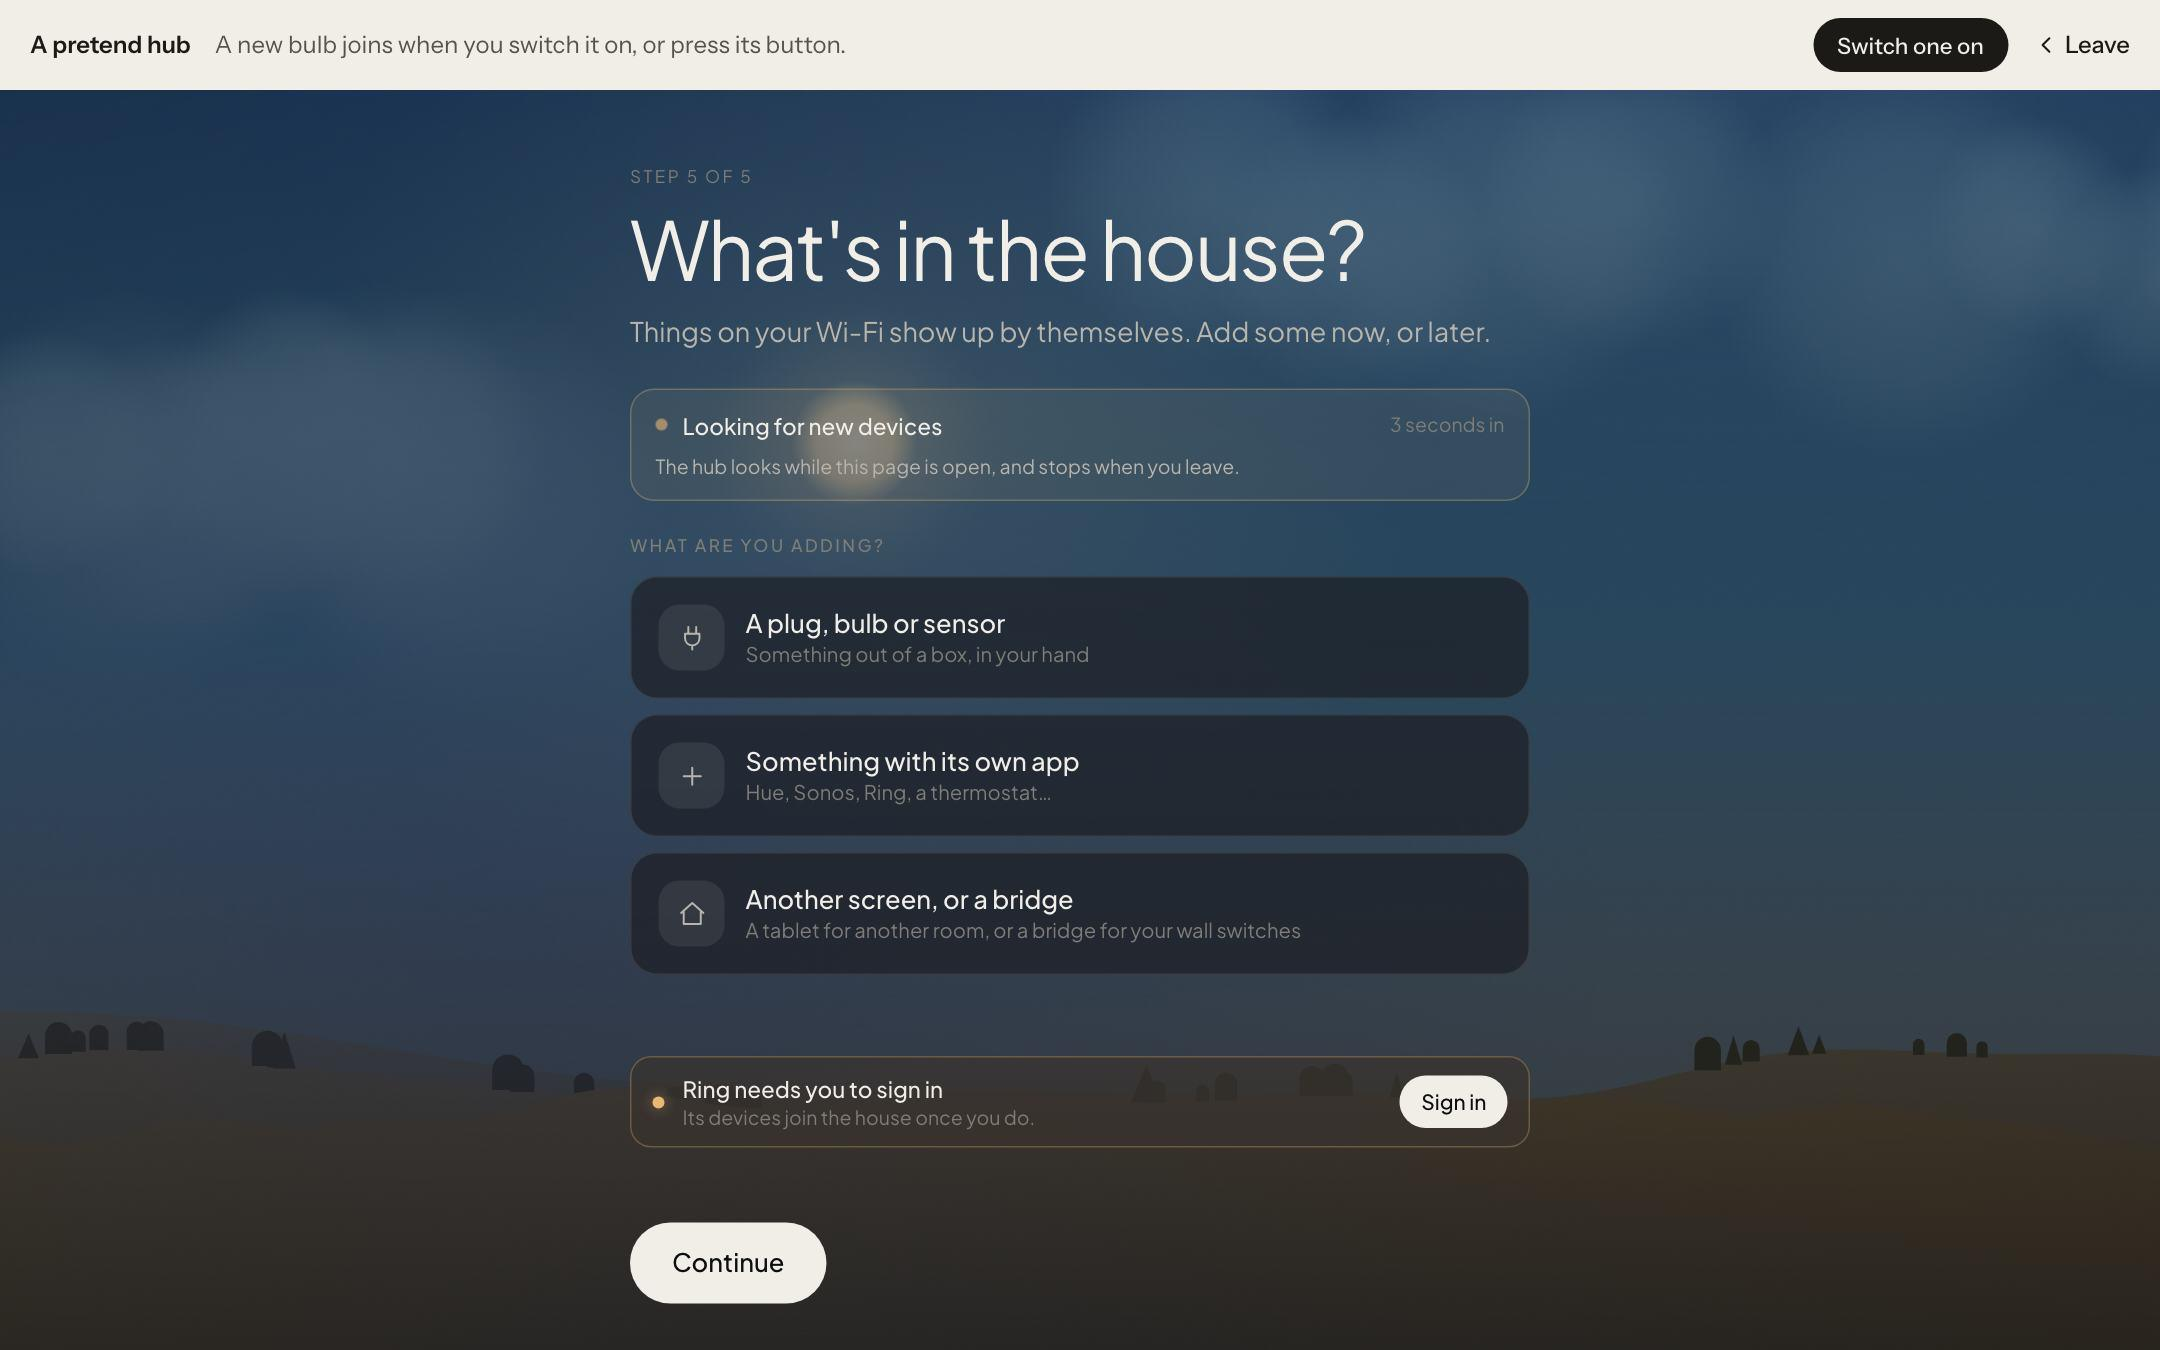
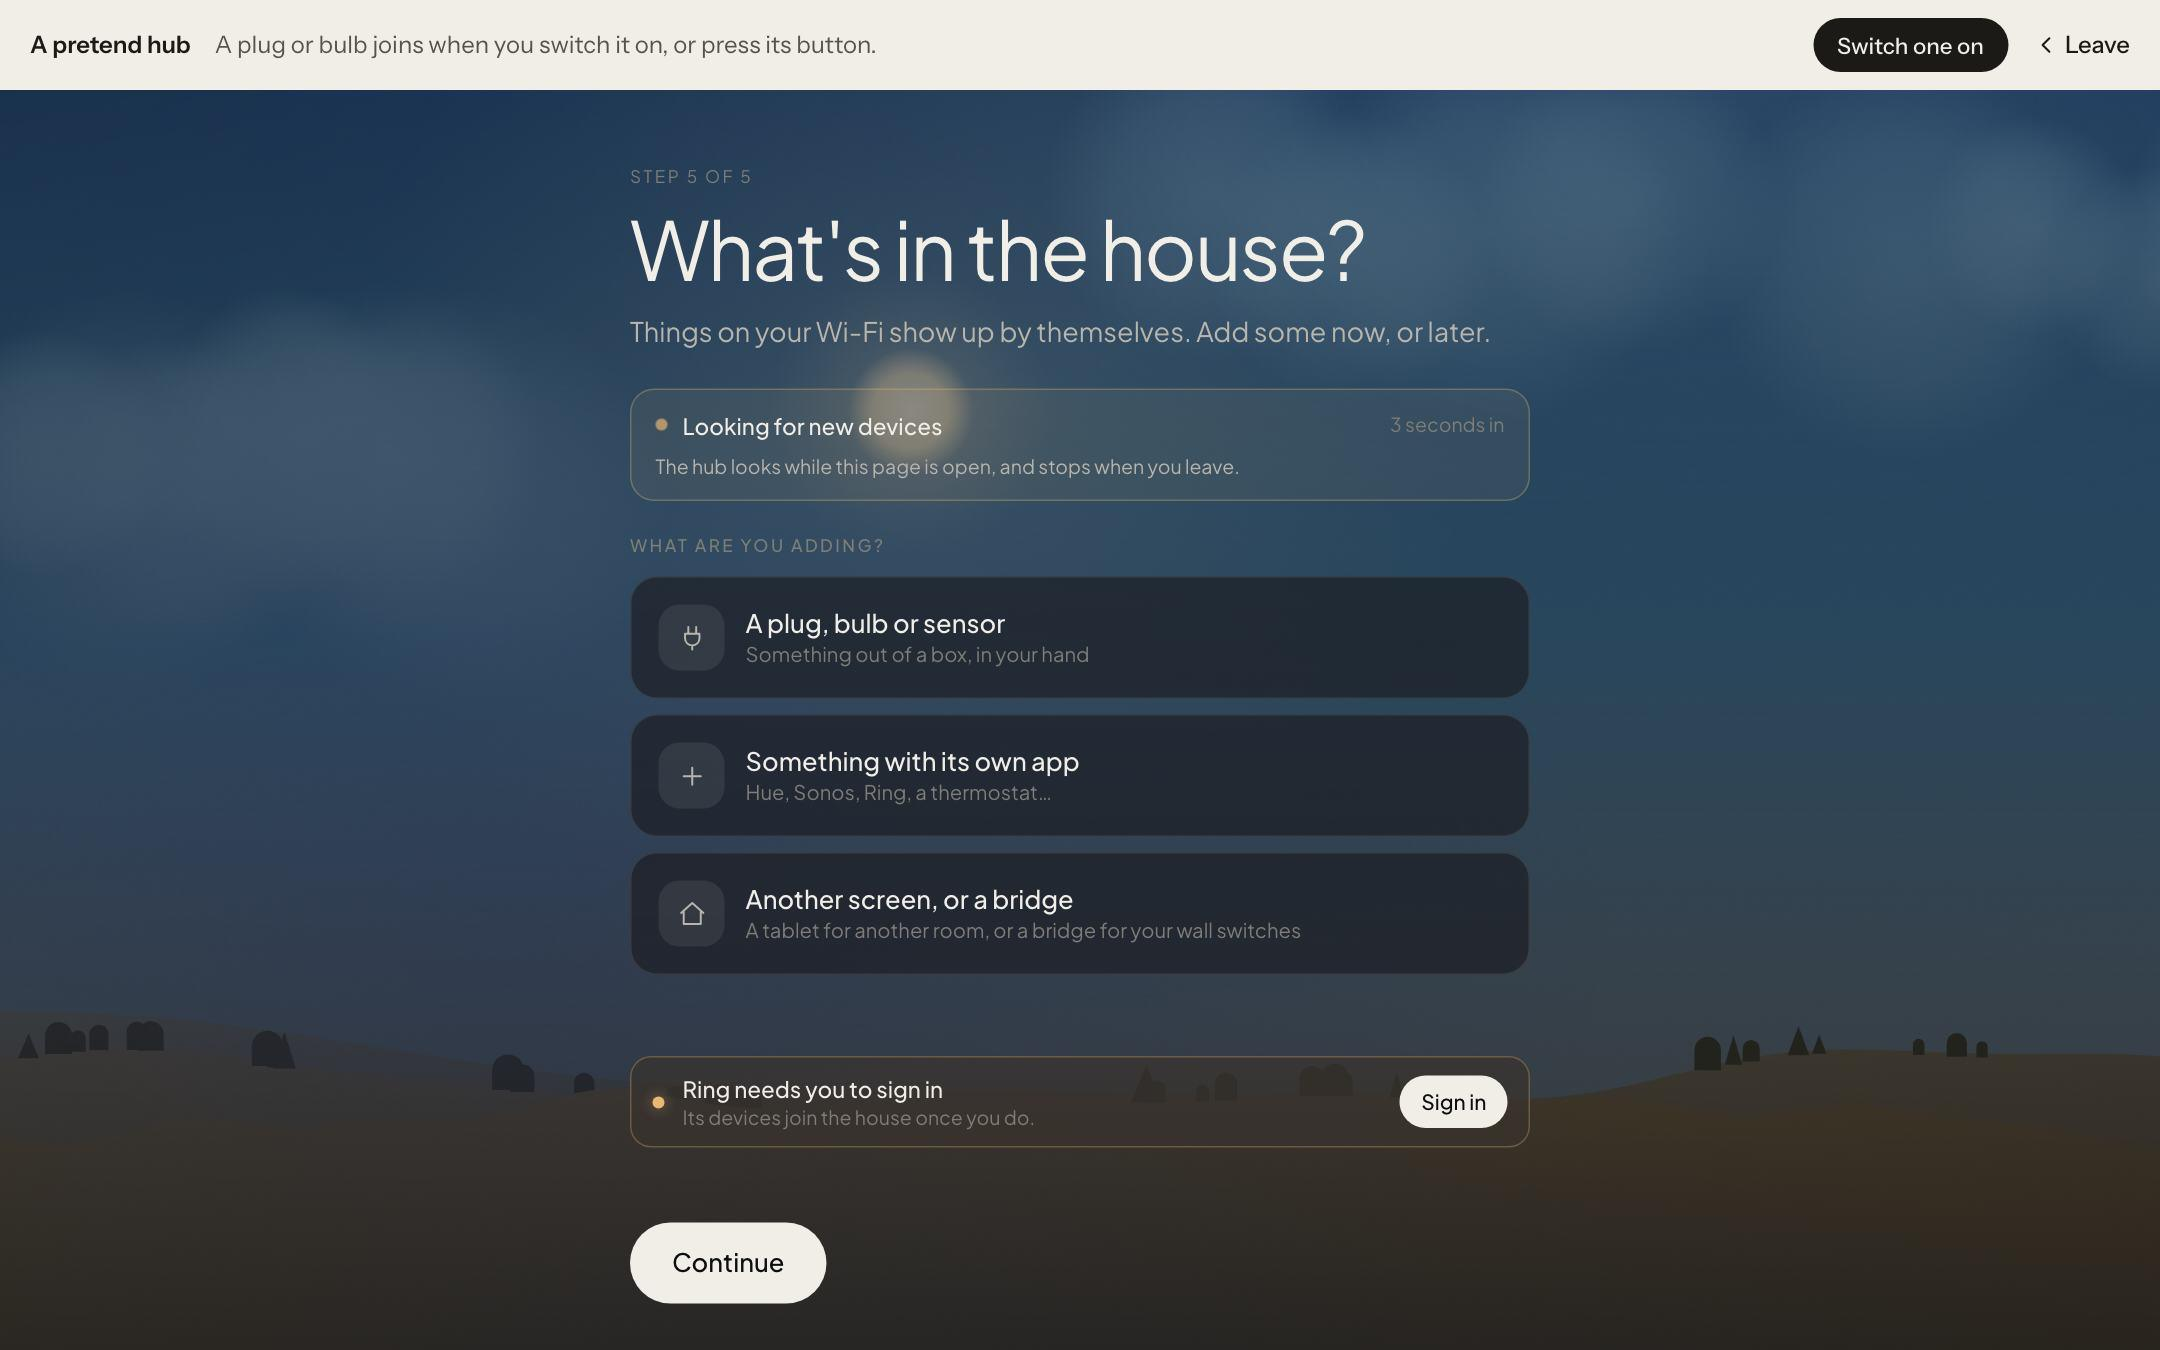
Setting up a pretend hub is picked: A, narrated by the bar the pretend house already has

Changed region(s): [[0.3722, 0.2489, 0.4653, 0.3733], [0.1241, 0.0311, 0.4032, 0.0622]]

diff --git a/design/try-setup/board.html b/design/try-setup/board.html
@@ -119,9 +119,9 @@ const BOARDS = {
     + panel(`${OFF}/`, 0, 60, 1440, 840)),
   'a-wifi': () => wall(bar('wall', 'On a real hub this is your own Wi‑Fi. <em>Here, any password joins.</em>')
     + panel(`${HUB}/`, 0, 60, 1440, 840)),
-  'a-add': () => wall(bar('wall', 'A new bulb joins when you switch it on, or press its button.', 'Switch one on')
+  'a-add': () => wall(bar('wall', 'A plug or bulb joins when you switch it on, or press its button.', 'Switch one on')
     + panel(`${HUB}/?setup=1&page=devices`, 0, 60, 1440, 840)),
-  'a-phone': () => phone(bar('phone', 'A new bulb joins when you switch it on, or press its button.', 'Switch one on')
+  'a-phone': () => phone(bar('phone', 'A plug or bulb joins when you switch it on, or press its button.', 'Switch one on')
     + panel(`${HUB}/?setup=1&page=devices`, 0, 124, 390, 720)),
 
   'b-plug': () => wall(`<div class="desk" style="left:0;top:0;width:460px;height:900px">${desk(false, '<b>Plug it in</b><span>The hub starts when it has power. Its screen comes on by itself.</span>', '<button class="press">Plug it in</button>')}</div>
